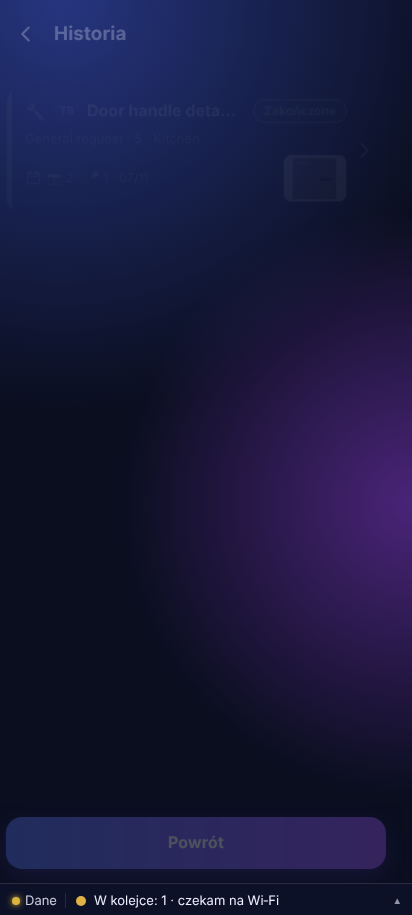
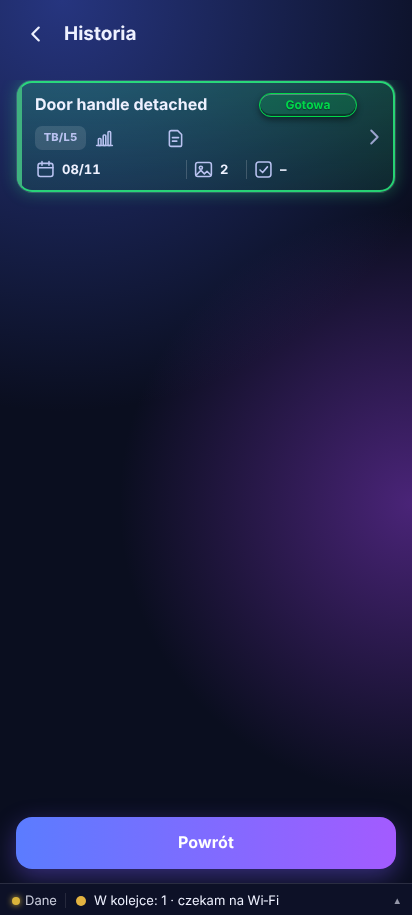
Reactive na klocku inspekcji (moduly/klocek OESTKlocek.inspekcja)
Lista Reactive używa tego samego klocka co PPM: stałe miejsca, pigułka statusu
(5 trybów), linia 2 lokalizacja TB/L5, linia 3 data zlecenia i zdjęcia.
Statusy Reactive bez zmian; pełny status i kto zlecił w oknie po przytrzymaniu.

Claude-Session: https://claude.ai/code/session_01F3GNBm2Fi6n5CfKrjTw6ic

Changed region(s): [[0.0291, 0.0306, 0.9903, 0.2142], [0.0, 0.8874, 0.9903, 0.9792]]

diff --git a/app/www/reactive.js b/app/www/reactive.js
@@ -25,15 +25,31 @@
   function who(){const c=cfg();try{return Object.assign(c,w.OESTSettings.people());}catch(e){return c;}}
   function cfg(){try{const c=JSON.parse(localStorage.getItem(CFG_KEY)||'null');if(c&&Array.isArray(c.people)&&Array.isArray(c.departments)&&Array.isArray(c.types))return c;}catch(e){}return structuredClone(CFG_DEF);}
   let listFilter='active',openRow='';
-  /* klocek: nazwa · kto zlecił · lokalizacja · 📷 zdjęcia · 🎤 notatki (Grzegorz 02/11) */
-  function counts(r){const ph=(r.beforeMediaIds||[]).length+(r.afterMediaIds||[]).length,nv=(r.audioMediaIds||[]).length+(String(r.note||'').trim()?1:0);return '📷 '+ph+' · 🎤 '+nv;}
-  // jeden klocek dla całej apki (moduly/klocek, Grzegorz 04/11): Reactive tylko podstawia swoje dane
-  const RX_TONE={open:4,parts:1,contractor:4,access:0,monitoring:1,completed:2,watch:0};
-  function card(o){if(!w.OESTKlocek)return '<button type="button" class="prow rxk'+(o.done?' done':'')+'" data-rx="'+o.action+'" data-id="'+esc(o.id)+'" style="--g:'+o.color+'"><span class="rxi">'+o.icon+'</span><span class="rxm"><b>'+esc(o.name)+'</b><span>'+esc(o.loc)+'</span></span></button>';
-    return w.OESTKlocek.html({id:o.id,data:{rx:o.action},color:o.color,icon:o.icon,tag:BLD[o.building]||'',name:o.name,status:{text:o.stTxt,tone:RX_TONE[o.st]??0},desc:[o.who||'',o.loc].filter(Boolean).join(' · ')||'—',due:esc(o.meta),thumbAttr:'data-rx-thumb="'+esc(o.thumb||'')+'"',go:o.action==='draft'?L('Kontynuuj ›','Continue ›'):L('Otwórz ›','Open ›'),done:o.done});}
+  /* klocek (08/11/2026): Reactive na KLOCKU INSPEKCJI (moduly/klocek OESTKlocek.inspekcja) – te same stałe miejsca co lista PPM, bez nowego układu.
+     Pigułka statusu ma 5 trybów (moduly/znacznik); statusy Reactive (reactive-core.js) zostają bez zmian, na pigułce tylko ich odpowiednik:
+     Otwarte/Obserwacja → W trakcie · Czeka na części/podwykonawcę/dostęp → Wstrzymana · Zakończone → Gotowa · szkic → „– – – –”.
+     Linia 2: lokalizacja (TB/L5), częstotliwość pusta (Reactive jej nie ma), formularz niewymagany. Linia 3: data zlecenia, zdjęcia przed+po, pytania „–”.
+     Pełny status, kto zlecił i notatki głosowe – w oknie po przytrzymaniu klocka (jak w PPM). */
+  const RX_TRYB={open:'wtrakcie',monitoring:'wtrakcie',parts:'wstrzymana',contractor:'wstrzymana',access:'wstrzymana',completed:'gotowa',draft:'nierozpoczeta'};
+  function rxLoc(b,l){const t=BLD[b]||'';if(!t||t==='Site')return t;const lv=!l?'':/^\d+$/.test(l)?'L'+l:l==='Roof'?'R':l==='Ground'?'G':l==='First'?'L1':l;return t+(lv?'/'+lv:'');}
+  function rxDate(r,at){const m=/^(\d{4})-(\d{2})-(\d{2})$/.exec(r.orderDate||'');if(m)return new Date(+m[1],+m[2]-1,+m[3]);const d=at?new Date(at):null;return d&&!isNaN(d)?new Date(d.getFullYear(),d.getMonth(),d.getDate()):null;}
+  function rxPhotos(r){return (r.beforeMediaIds||[]).length+(r.afterMediaIds||[]).length;}
+  function card(o){if(!w.OESTKlocek)return '<button type="button" class="prow rxk'+(o.st==='completed'?' done':'')+'" data-rx="'+o.action+'" data-id="'+esc(o.id)+'" style="--g:'+o.color+'"><span class="rxi">'+o.icon+'</span><span class="rxm"><b>'+esc(o.name)+'</b><span>'+esc(o.loc)+'</span></span></button>';
+    return w.OESTKlocek.inspekcja({id:o.id,data:{rx:o.action},color:o.color,name:o.name,status:RX_TRYB[o.st]||'nierozpoczeta',loc:rxLoc(o.r.building,o.r.level),freq:'',form:'brak',due:rxDate(o.r,o.at),dueDone:true,photos:rxPhotos(o.r),qa:null,issues:0,go:o.action==='draft'?L('Kontynuuj','Continue'):L('Otwórz','Open'),glow:o.st==='completed'});}
   function jobCard(job){const r=job.reactive||{},st=C.status(job);
-    return card({action:'job',id:job.id,done:st==='completed',color:STC[st]||'#8b949e',icon:TYPE_ICON[r.jobType]||'📝',name:job.text||L('Zadanie','Job'),who:r.requestedBy?C.whoLabel(r):'',building:r.building,loc:[r.level,r.room].filter(Boolean).join(' · ')||(r.building==='Premises'?'':job.location)||'',meta:counts(r)+' · '+(r.orderDate?r.orderDate.split('-').reverse().slice(0,2).join('/'):C.days(job.createdAt)+L(' dni',' days')),st,stTxt:C.uiLabel(st),thumb:r.beforeMediaIds?.[0]||data.entries.find(e=>e.id===job.entryId)?.mediaIds?.[0]||''});}
-  function draftCard(d){return card({action:'draft',id:d.draftId,color:'#8b949e',icon:'📝',name:d.title||d.uiTitle||L('Nowe zadanie','New job'),who:d.requestedBy?C.whoLabel(d):'',building:d.building,loc:[d.level,d.room].filter(Boolean).join(' · '),meta:counts(d)+L(' · szkic',' · draft'),st:'watch',stTxt:L('Szkic','Draft')});}
+    return card({action:'job',id:job.id,r,at:job.createdAt,st,color:STC[st]||'#8b949e',icon:TYPE_ICON[r.jobType]||'📝',name:job.text||L('Zadanie','Job'),loc:[r.level,r.room].filter(Boolean).join(' · ')||(r.building==='Premises'?'':job.location)||''});}
+  function draftCard(d){return card({action:'draft',id:d.draftId,r:d,at:d.createdAt,st:'draft',color:'#8b949e',icon:'📝',name:d.title||d.uiTitle||L('Nowe zadanie','New job'),loc:[d.level,d.room].filter(Boolean).join(' · ')});}
+  // okno informacji po przytrzymaniu klocka – ten sam mechanizm i wygląd co w PPM (OESTKlocek.przytrzymaj/infoNode, okienko OESTPrzycisk)
+  function rxInfo(el){if(!w.OESTPrzycisk?.ask||!w.OESTKlocek?.infoNode)return;const isDraft=el.dataset.rx==='draft',job=isDraft?null:data.jobs.find(j=>j.id===el.dataset.id),r=isDraft?data.reactiveDrafts?.[el.dataset.id]:job&&{...(job.reactive||{}),title:job.text};if(!r)return;
+    const d=rxDate(r,isDraft?r.createdAt:job.createdAt),day=d?String(d.getDate()).padStart(2,'0')+'/'+String(d.getMonth()+1).padStart(2,'0')+'/'+d.getFullYear():'',st=isDraft?L('Szkic','Draft'):C.uiLabel(C.status(job))+(r.temporary?L(' · tymczasowa naprawa',' · temporary repair'):''),
+      where=[r.building,r.level,r.room].filter(Boolean).join(', '),nv=(r.audioMediaIds||[]).length;
+    const rows=[{ic:'lok',html:where?esc(where):esc(L('Lokalizacja nieprzypisana','No location assigned'))},
+      {ic:'termin',html:day?L('Zlecono ','Ordered ')+'<b>'+day+'</b>':esc(L('Brak daty','No date'))},
+      {ic:'zdjecia',html:esc(L('Zdjęcia przed ','Photos before '))+'<b>'+(r.beforeMediaIds||[]).length+'</b> · '+esc(L('po ','after '))+'<b>'+(r.afterMediaIds||[]).length+'</b>'},
+      {ic:'',html:esc(L('Status: ','Status: '))+'<b>'+esc(st)+'</b>'}];
+    if(r.requestedBy)rows.push({ic:'',html:esc(L('Kto zlecił: ','Requested by: '))+'<b>'+esc(C.whoLabel(r))+'</b>'});
+    if(nv)rows.push({ic:'',html:esc(L('Notatki głosowe: ','Voice notes: '))+'<b>'+nv+'</b>'});
+    w.OESTPrzycisk.ask({title:r.title||r.uiTitle||L('Zadanie','Job'),node:w.OESTKlocek.infoNode(rows),bare:true,cls:w.OESTKlocek.infoCls});}
   function home(){const all=data.jobs,active=all.filter(j=>j.status!=='fixed'),done=all.filter(j=>j.status==='fixed'),loose=Object.values(data.reactiveDrafts||{}).filter(d=>!d.jobId&&d.draftId);
     const list=listFilter==='done'?done:listFilter==='all'?all:active,showDrafts=listFilter!=='done';
     const f=[['active',L('Aktywne','Active')+' ('+(active.length+loose.length)+')'],['done',L('Zakończone','Completed')+' ('+done.length+')'],['all',L('Wszystkie','All')]].map(([id,l])=>chip(l,'filter','data-id="'+id+'"',listFilter===id)).join('');
@@ -88,9 +104,8 @@
   let lastRoute='';function render(){const keep=route===lastRoute?[$('v-reactive')?.querySelector('.rx-body')?.scrollTop||0,w.scrollY||0]:null;lastRoute=route;cleanup();const part=route.split('/'),screen=part[1]==='tree'?tree(part[2]):part[1]==='config'?config():part[1]==='history'?{title:L('Historia','History'),body:data.jobs.filter(j=>j.status==='fixed').map(j=>jobCard(j,true)).join('')||'<p>'+L('Brak zakończonych zleceń.','No completed jobs.')+'</p>',footer:btn(L('Powrót','Back'),'home','',true)}:isForm()?form():home();const root=$('v-reactive');root.innerHTML='<div class="top"><button class="back" type="button" data-rx="back" aria-label="'+L('Wstecz','Back')+'">‹</button><h1>'+esc(screen.title)+'</h1>'+(screen.gear?'<button class="back rx-gear" type="button" data-rx="cfg" aria-label="'+L('Ustawienia Reactive','Reactive settings')+'">⚙</button>':'')+'</div><div class="rx-body">'+screen.body+'</div><div class="rx-footer"><p id="rxMessage" role="status" aria-live="polite"></p>'+screen.footer+'</div>';bind();if(keep){/* ten sam ekran: zostań w tym samym miejscu (bez skoku na górę) */const body=root.querySelector('.rx-body');if(body)body.scrollTop=keep[0];w.scrollTo(0,keep[1]);}}
   async function renderEvidence(){const token=epoch;for(const phase of ['before','after']){const root=$('rx-'+phase);if(!root||!draft)continue;root.replaceChildren();for(const id of draft[phase+'MediaIds']||[]){const m=await repo.media(id);ensure();if(token!==epoch||!root.isConnected)return;if(m?.kind!=='photo')continue;const url=URL.createObjectURL(m.blob);urls.push(url);const image=document.createElement('img');image.src=url;image.alt=phase==='before'?L('Zdjęcie przed','Photo before'):L('Zdjęcie po','Photo after');image.onclick=()=>{const win=w.open();if(win){win.document.title=image.alt;const im=win.document.createElement('img');im.src=url;im.style.maxWidth='100%';win.document.body.append(im);}};const box=document.createElement('div');box.className='ph';box.append(image);const closedJob=draft.status==='completed'&&data.jobs.find(j=>j.id===draft.jobId)?.status==='fixed';if(!closedJob){const del=document.createElement('button');del.type='button';del.className='del';del.textContent='×';del.setAttribute('aria-label',L('Usuń zdjęcie','Delete photo'));del.onclick=async e=>{e.stopPropagation();if(!await w.OESTPytaj(L('Usunąć to zdjęcie z zadania?','Remove this photo from the job?')))return;run(async()=>{draft[phase+'MediaIds']=draft[phase+'MediaIds'].filter(x=>x!==id);await persist(false);await renderEvidence();});};box.append(del);if(w.OESTAparat?.available()){const ed=document.createElement('button');ed.type='button';ed.className='ed';ed.textContent='✏';ed.setAttribute('aria-label',L('Edytuj zdjęcie','Edit photo'));ed.onclick=e=>{e.stopPropagation();run(async()=>{const nb=await w.OESTAparat.edit(m.blob);if(!nb)return;const media=await photoMedia(nb,phase);pendingMedia.set(media.id,media);draft[phase+'MediaIds']=draft[phase+'MediaIds'].map(x=>x===id?media.id:x);await persist(false);await renderEvidence();});};box.append(ed);}}root.append(box);}}
     if($('rxAudio')&&draft){$('rxAudio').replaceChildren();const closedVoice=draft.status==='completed'&&data.jobs.find(j=>j.id===draft.jobId)?.status==='fixed';for(const id of draft.audioMediaIds||[]){const m=await repo.media(id);if(!m)continue;const row=document.createElement('div'),audio=document.createElement('audio'),url=URL.createObjectURL(m.blob);urls.push(url);row.className='rx-voice';audio.controls=true;audio.src=url;audio.preload='metadata';row.append(audio);if(!closedVoice){const tx=document.createElement('button');tx.type='button';tx.className='tx';tx.textContent=draft.voiceTexts?.[id]?L('↻ Od nowa','↻ Again'):L('📝 Na tekst','📝 To text');tx.dataset.rx='transcribe';tx.dataset.id=id;const del=document.createElement('button');del.type='button';del.className='del';del.textContent='×';del.setAttribute('aria-label',L('Usuń nagranie','Delete recording'));del.onclick=async e=>{e.stopPropagation();if(!await w.OESTVoice.ask(L('Na pewno usunąć to nagranie?','Delete this recording?')))return;run(async()=>{draft.audioMediaIds=draft.audioMediaIds.filter(x=>x!==id);if(draft.voiceTexts)delete draft.voiceTexts[id];if(draft.voicePl)delete draft.voicePl[id];await persist(false);await renderEvidence();});};row.append(tx,del);}$('rxAudio').append(row);/* każda notatka głosowa ma swój tekst (osobno do poprawy/usunięcia); do raportu łączone przy wysyłce */if(draft.voiceTexts?.[id]){const t=document.createElement('textarea');t.className='rx-vt';t.rows=2;t.maxLength=4000;t.value=draft.voiceTexts[id];t.readOnly=closedVoice;t.oninput=()=>{draft.voiceTexts={...draft.voiceTexts,[id]:t.value};persist(false);};$('rxAudio').append(t);}}}
-    for(const node of document.querySelectorAll('[data-rx-thumb]')){const m=await repo.media(node.dataset.rxThumb);if(m?.kind==='photo'&&node.isConnected){const image=document.createElement('img'),url=URL.createObjectURL(m.blob);urls.push(url);image.src=url;image.alt=L('Zdjęcie zlecenia','Job photo');node.append(image);}}
   }
-  function bind(){const root=$('v-reactive');root.onclick=e=>{const b=e.target.closest('[data-rx]');if(b)act(b.dataset.rx,b);};root.querySelectorAll('[data-rx-field]').forEach(el=>{el.oninput=()=>{if(el.dataset.rxField==='reportText')draft.reportEdited=true;persist();};if(el.dataset.rxField==='building')el.onchange=()=>{collect();draft.level='';persist(false);render();renderEvidence();};});root.querySelectorAll('[data-rx-photos]').forEach(el=>el.onchange=()=>{const files=Array.from(el.files);el.value='';run(async()=>{for(const file of files)await addPhoto(file,el.dataset.rxPhotos);await renderEvidence();});});if($('rxRecBtn'))w.OESTVoice.holdButton($('rxRecBtn'),voice,e=>message(e.message));}
+  function bind(){const root=$('v-reactive');if(w.OESTKlocek?.przytrzymaj)w.OESTKlocek.przytrzymaj(root,rxInfo);root.onclick=e=>{const b=e.target.closest('[data-rx]');if(b)act(b.dataset.rx,b);};root.querySelectorAll('[data-rx-field]').forEach(el=>{el.oninput=()=>{if(el.dataset.rxField==='reportText')draft.reportEdited=true;persist();};if(el.dataset.rxField==='building')el.onchange=()=>{collect();draft.level='';persist(false);render();renderEvidence();};});root.querySelectorAll('[data-rx-photos]').forEach(el=>el.onchange=()=>{const files=Array.from(el.files);el.value='';run(async()=>{for(const file of files)await addPhoto(file,el.dataset.rxPhotos);await renderEvidence();});});if($('rxRecBtn'))w.OESTVoice.holdButton($('rxRecBtn'),voice,e=>message(e.message));}
   /* Jeden zapis zdjęcia (Grzegorz 04/11/2026): zdjęcie zapisuje się raz w module zdjęć (folder OEST, trzymane przez Reactive,
      więc sprzątanie go nie skasuje); zadanie ma tylko jego id (zid). Bez modułu albo gdy nie przyjmie zdjęcia: własna kopia jak dawniej. */
   async function photoMedia(file,phase){const base={id:crypto.randomUUID(),kind:'photo',name:'Reactive photo.jpg',mime:'image/jpeg'};if(w.OESTZdjecia){try{const r=await w.OESTZdjecia.save(file,{source:'reactive',category:'Reactive',code:phase==='before'?'przed':'po',location:[draft.building,draft.level,draft.room].filter(Boolean).join(' '),hold:'reactive',kind:'ogolne'});return{...base,zid:r.id,blob:r.blob,size:r.blob.size};}catch(e){}}const prepared=await w.OESTKeys.prepareMedia(file),c=prepared.canvas,blob=await new Promise(resolve=>c.toBlob(resolve,'image/jpeg',.72));if(!blob)throw Error('IMAGE_COMPRESSION');return{...base,blob,size:blob.size};}
